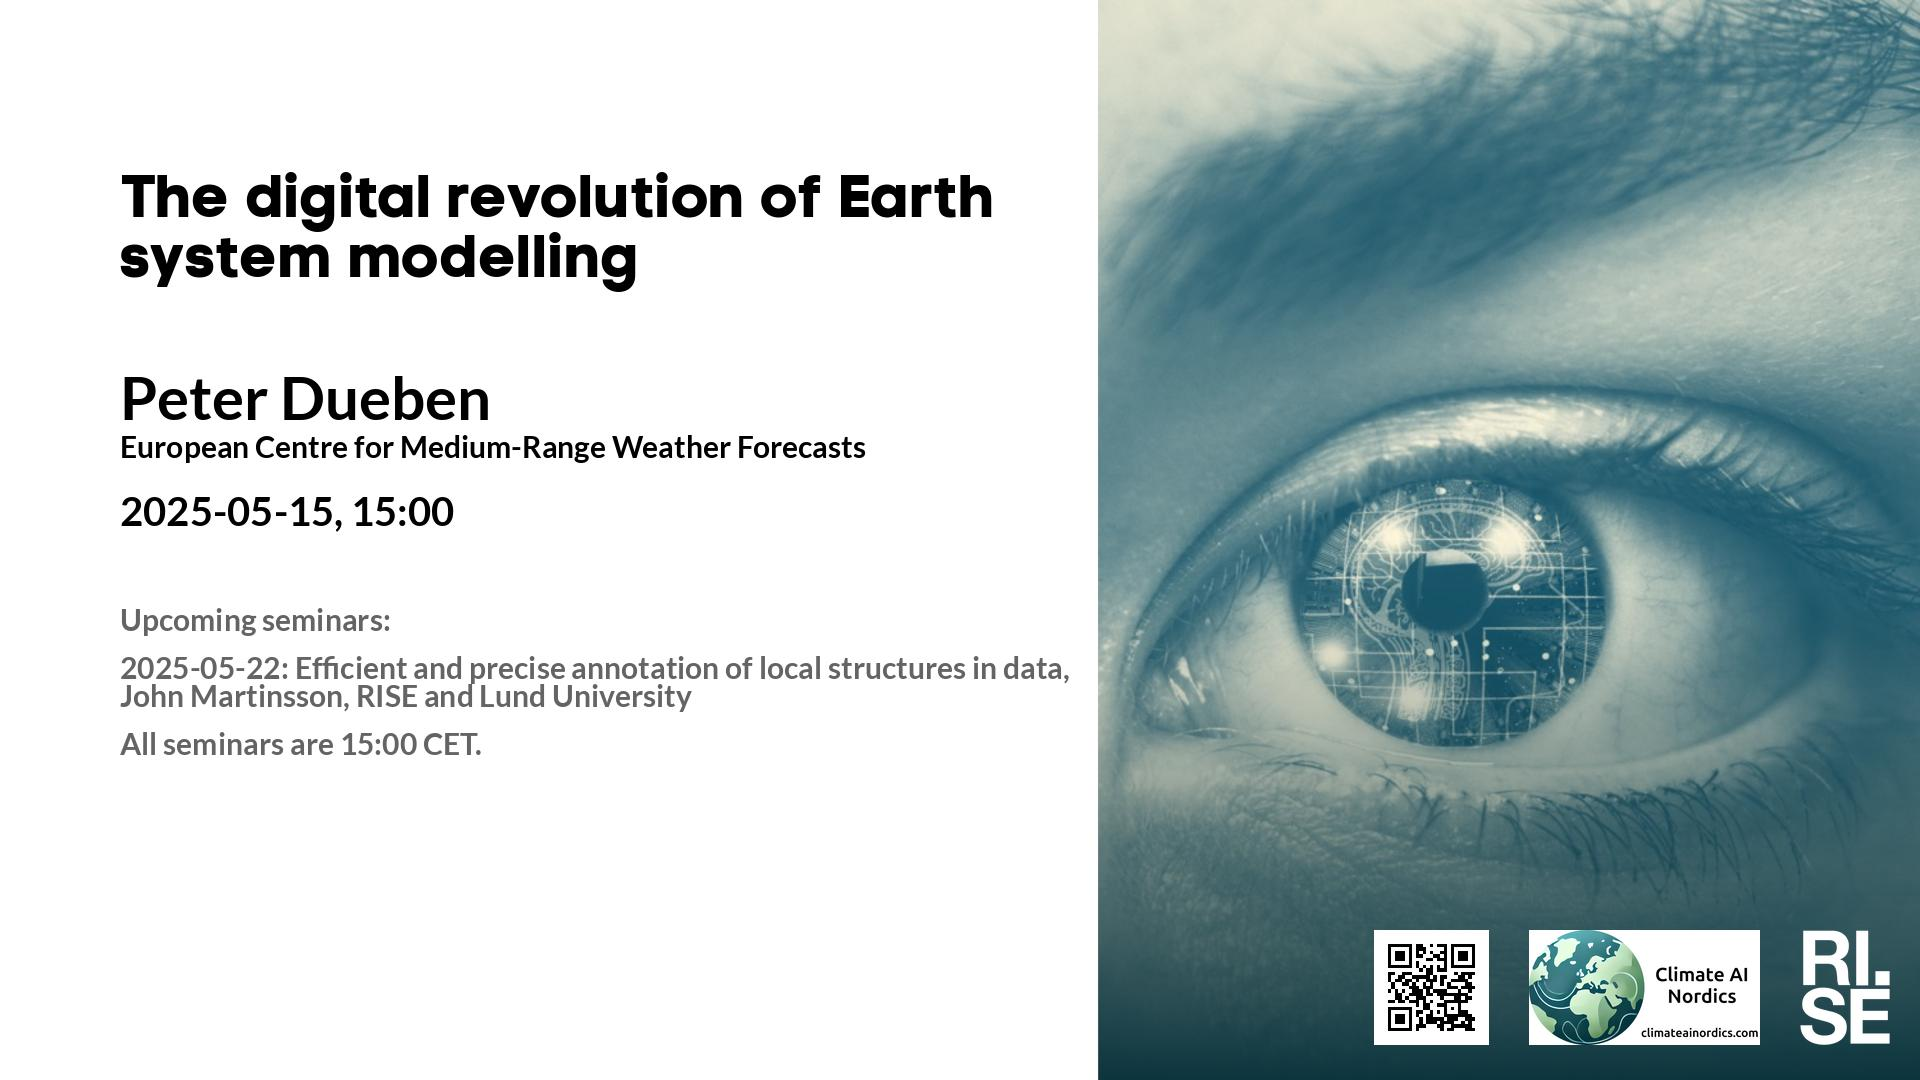
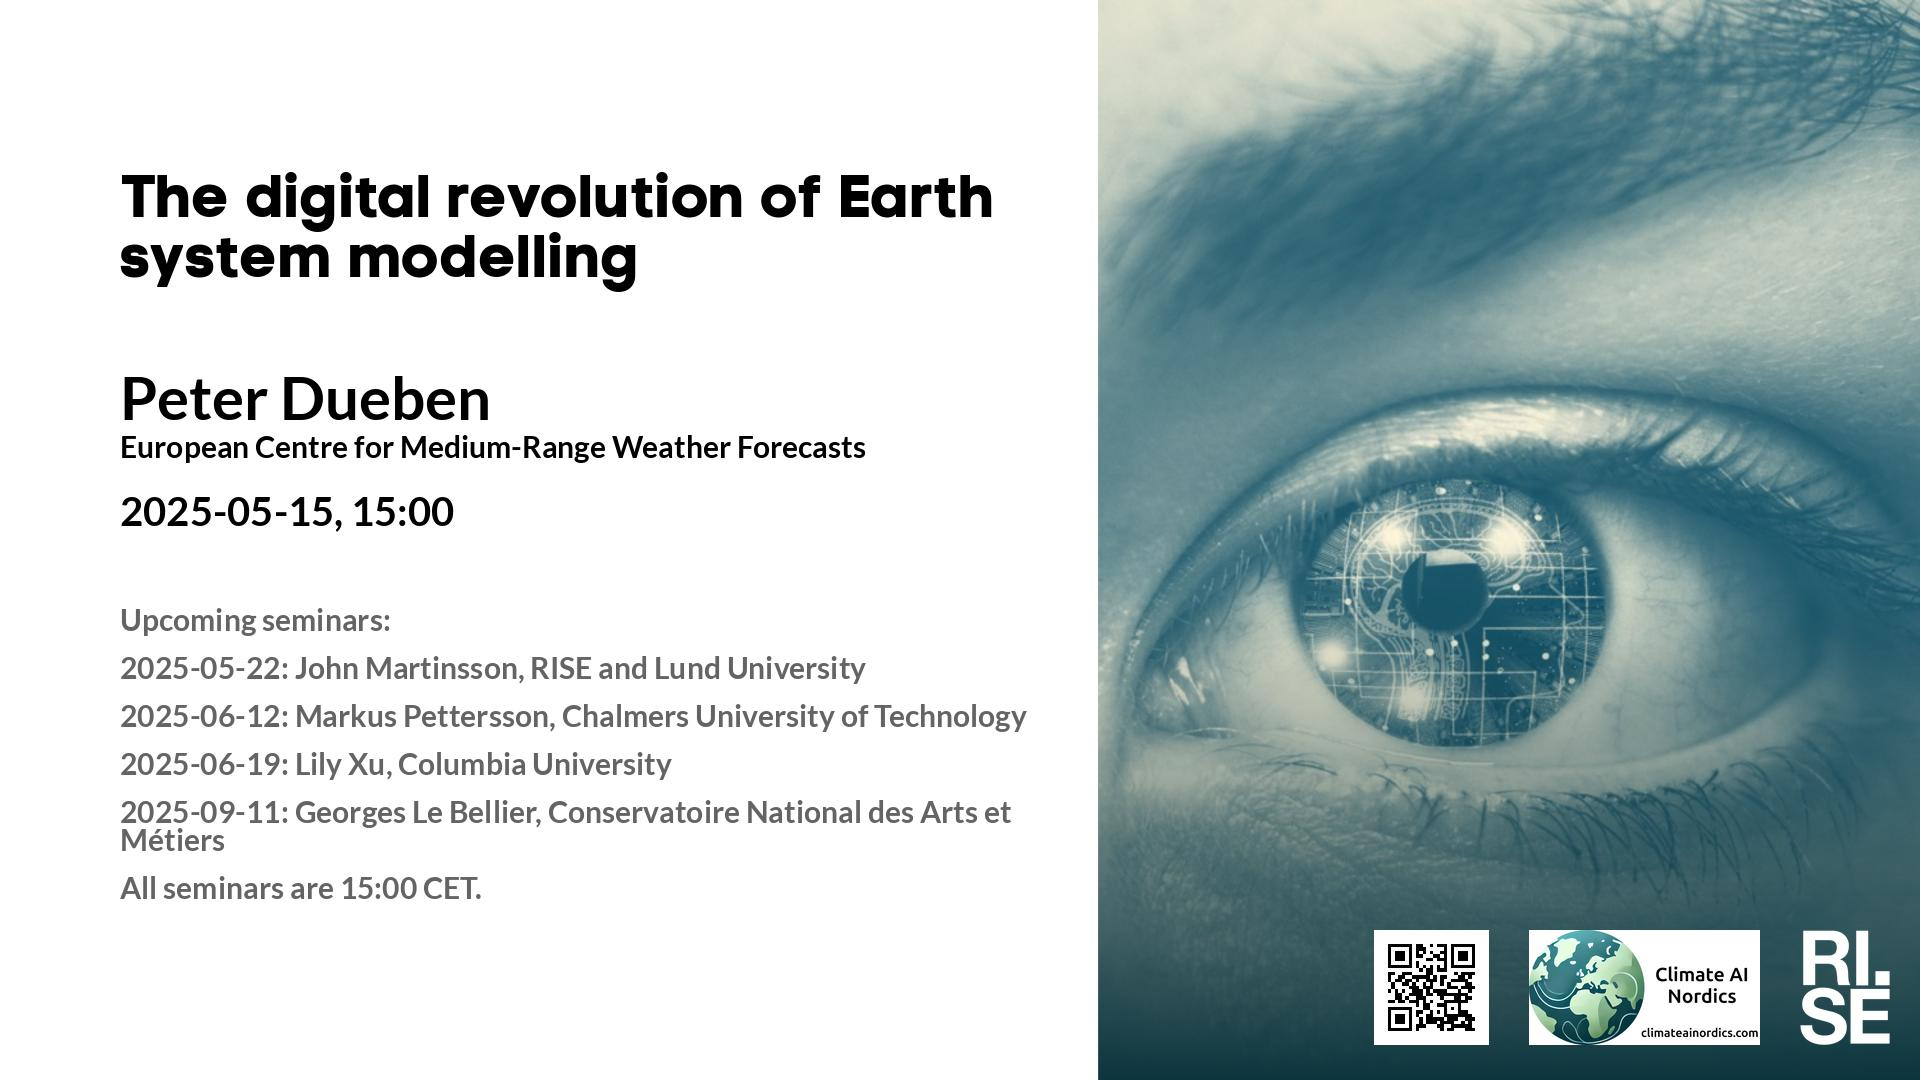
Updated plan on web site.

Changed region(s): [[0.0625, 0.6111, 0.5625, 0.8556]]

diff --git a/lm/2025-05-08.md b/lm/2025-05-08.md
@@ -27,8 +27,10 @@ Next, I will describe our ongoing efforts to build on said baselines. This was d
 
 **Upcoming seminars:**
 
-* 2025-05-15: *Efficient and precise annotation of local structures in data*, Peter Dueben, European Centre for Medium-Range Weather Forecasts
-* 2025-05-22: *Efficient and precise annotation of local structures in data*, John Martinsson, RISE and Lund University
+* 2025-05-15: Peter Dueben, European Centre for Medium-Range Weather Forecasts
+* 2025-05-22: John Martinsson, RISE and Lund University
+* 2025-06-12: Markus Pettersson, Chalmers University of Technology
+* 2025-06-19: Lily Xu, Columbia University
 * All seminars are 15:00 CET.
 
 More information and coming seminars: [https://ri.se/lm-sem](https://ri.se/lm-sem)

diff --git a/lm/2025-05-15.md b/lm/2025-05-15.md
@@ -23,7 +23,10 @@ This seminar is a collaboration between RISE and Climate AI Nordics -- [climatea
 
 **Upcoming seminars:**
 
-* 2025-05-22: *Efficient and precise annotation of local structures in data*, John Martinsson, RISE and Lund University
+* 2025-05-22: John Martinsson, RISE and Lund University
+* 2025-06-12: Markus Pettersson, Chalmers University of Technology
+* 2025-06-19: Lily Xu, Columbia University
+* 2025-09-11: Georges Le Bellier, Conservatoire National des Arts et Métiers
 * All seminars are 15:00 CET.
 
 More information and coming seminars: [https://ri.se/lm-sem](https://ri.se/lm-sem)
